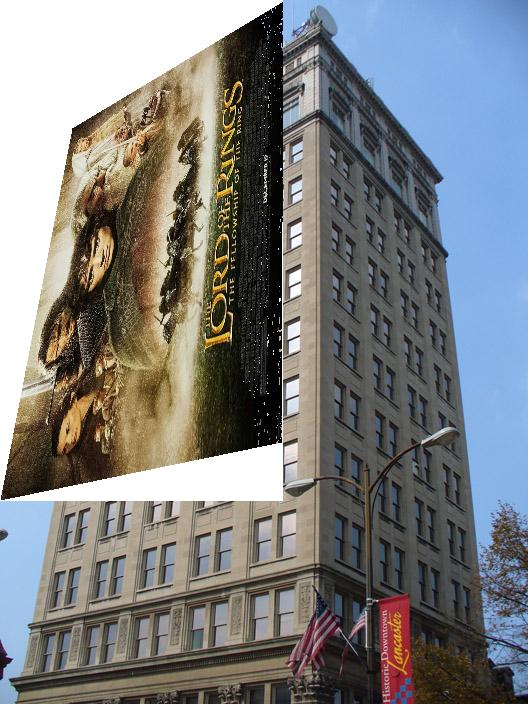
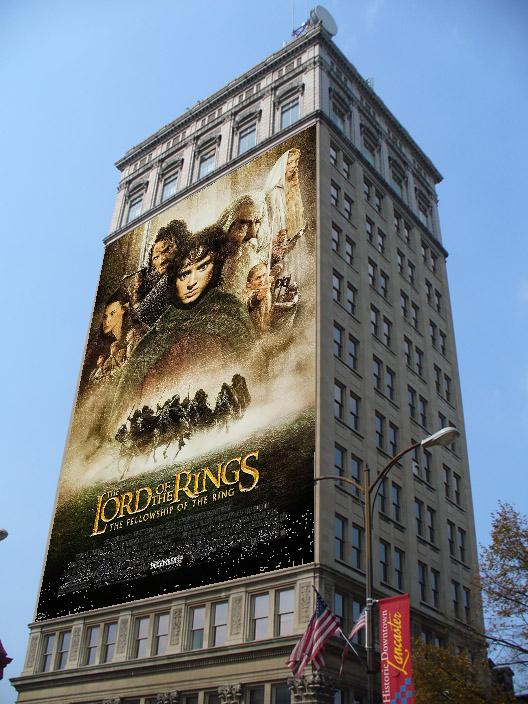
POster on building

diff --git a/assignment2/q2/q2.py b/assignment2/q2/q2.py
@@ -1,14 +1,54 @@
+# from PIL import Image
+# import numpy as np
+# from applyhomography import applyhomography
+# import cv2
+
+# # Claud AI
+# def find_homography(pts_src, pts_dst):
+#     A = []
+#     for i in range(4):
+#         x, y = pts_src[i][0], pts_src[i][1]
+#         u, v = pts_dst[i][0], pts_dst[i][1]
+#         A.append([-x, -y, -1, 0, 0, 0, u*x, u*y, u])
+#         A.append([0, 0, 0, -x, -y, -1, v*x, v*y, v])
+#     A = np.array(A)
+#     U, S, Vh = np.linalg.svd(A)
+#     L = Vh[-1, :] / Vh[-1, -1]
+#     H = L.reshape(3, 3)
+#     return H
+
+# poster = Image.open('lotr.jpg')
+# poster = np.array(poster)
+# building = Image.open('griest.jpg')
+# building = np.array(building)
+
+# h, w, _ = poster.shape
+
+# pts_dst = np.array([[35, 619], [318,120], [316,561], [107,247] ])
+# pts_src = np.array([[0,0], [w-1,0], [w-1,h-1], [0,h-1]])
+
+# H = find_homography(pts_src, pts_dst)
+# transformed = applyhomography(poster, H)
+
+# building_pil = Image.fromarray(building)
+# transformed_pil = Image.fromarray(transformed.astype('uint8'), 'RGB')
+
+# mask = Image.new('L', transformed_pil.size, 0)
+# mask_data = transformed.sum(axis=2) != 0  # True where the image is not black
+# mask = Image.fromarray((mask_data * 255).astype('uint8'), 'L')
+
+# building_pil.paste(transformed_pil, (0, 0), mask)
+# building_pil.save('output.jpg')
+# transformed_pil.save('transform.jpg')
+
 from PIL import Image
 import numpy as np
-from applyhomography import applyhomography
-import cv2
 
-# Claud AI
-def find_homography(src_points, dst_points):
+def find_homography(pts_src, pts_dst):
     A = []
     for i in range(4):
-        x, y = src_points[i][0], src_points[i][1]
-        u, v = dst_points[i][0], dst_points[i][1]
+        x, y = pts_src[i][0], pts_src[i][1]
+        u, v = pts_dst[i][0], pts_dst[i][1]
         A.append([-x, -y, -1, 0, 0, 0, u*x, u*y, u])
         A.append([0, 0, 0, -x, -y, -1, v*x, v*y, v])
     A = np.array(A)
@@ -17,6 +57,23 @@ def find_homography(src_points, dst_points):
     H = L.reshape(3, 3)
     return H
 
+def apply_homography(image, H):
+    h, w = image.shape[:2]
+    y, x = np.indices((h, w))
+    homogeneous_coords = np.stack([x.ravel(), y.ravel(), np.ones_like(x).ravel()])
+    transformed_coords = H @ homogeneous_coords
+    transformed_coords /= transformed_coords[2]
+    x_transformed, y_transformed = transformed_coords[:2].round().astype(int)
+    
+    mask = (x_transformed >= 0) & (x_transformed < w) & (y_transformed >= 0) & (y_transformed < h)
+    x_valid, y_valid = x_transformed[mask], y_transformed[mask]
+    
+    output = np.zeros_like(image)
+    output[y_valid, x_valid] = image[y.ravel()[mask], x.ravel()[mask]]
+    
+    return output
+
+# Load images
 poster = Image.open('lotr.jpg')
 poster = np.array(poster)
 building = Image.open('griest.jpg')
@@ -24,30 +81,19 @@ building = np.array(building)
 
 h, w, _ = poster.shape
 
-pts_dst = np.array([[35, 619], [107,247],[318,120],[316,561]])
-pts_src = np.array([[0,0], [w-1,0], [w-1,h-1], [0,h-1]])
+pts_dst = np.array([[106, 246], [315,124], [35,621], [313,561]])
+pts_src = np.array([[0,0], [w-1,0], [0,h-1], [w-1,h-1]])
 
-# Apply a projective
 H = find_homography(pts_src, pts_dst)
-transformed = applyhomography(poster, H)
+transformed = apply_homography(poster, H)
 
-# Convert building to PIL Image
 building_pil = Image.fromarray(building)
-
-# Convert transformed poster to PIL Image
 transformed_pil = Image.fromarray(transformed.astype('uint8'), 'RGB')
 
-# Create a mask for the transformed poster
 mask = Image.new('L', transformed_pil.size, 0)
 mask_data = transformed.sum(axis=2) != 0  # True where the image is not black
 mask = Image.fromarray((mask_data * 255).astype('uint8'), 'L')
 
-# Paste the transformed poster onto the building
 building_pil.paste(transformed_pil, (0, 0), mask)
-
-# Save the final output
 building_pil.save('output.jpg')
-
-# If you want to save the transformed poster separately
 transformed_pil.save('transform.jpg')
-
